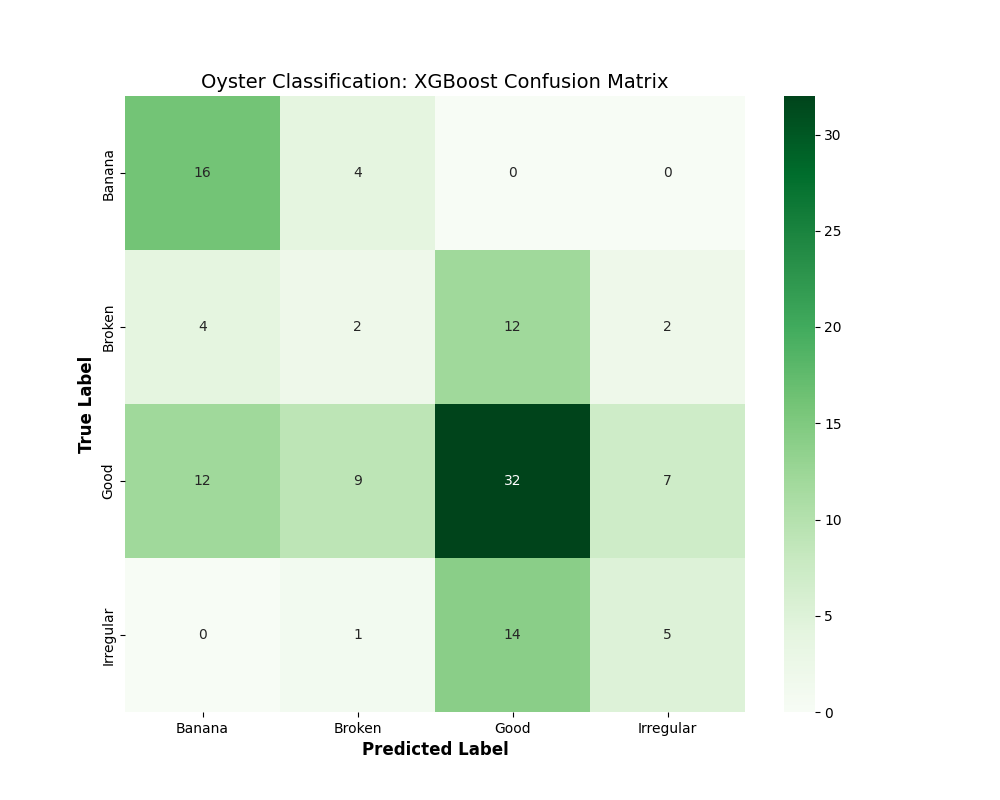
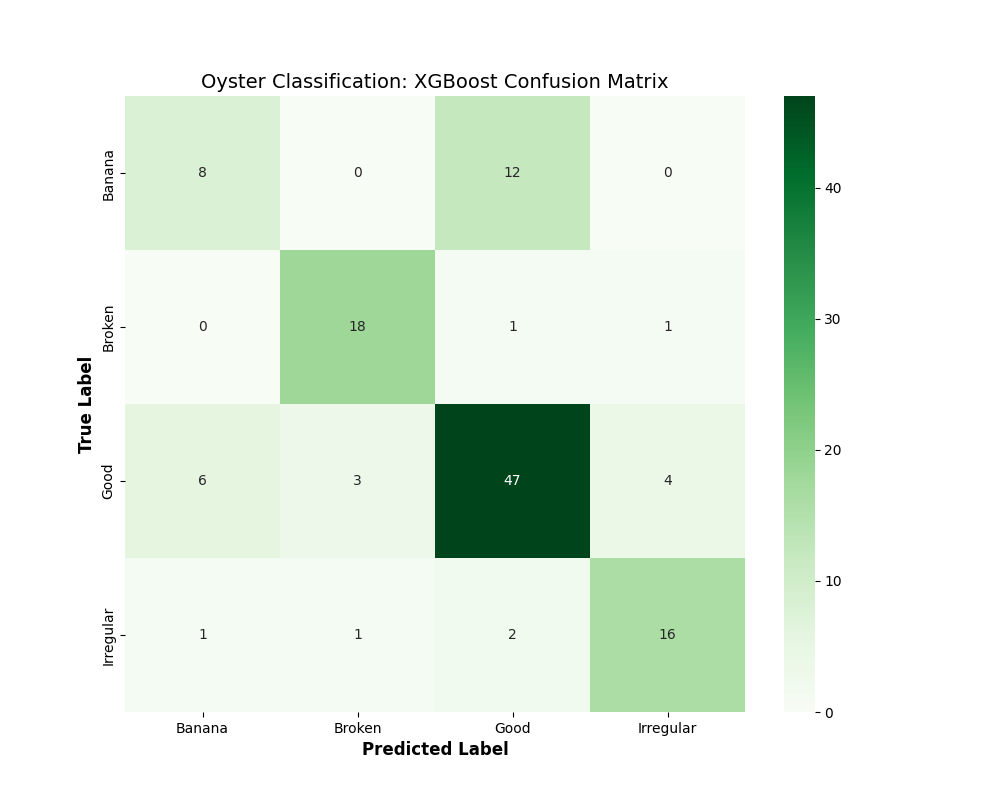
best I can do XGBoost 74%

Changed region(s): [[0.124, 0.0938, 0.744, 0.9062], [0.124, 0.0938, 0.279, 0.3125], [0.496, 0.5938, 0.527, 0.625]]

diff --git a/classification/oyster_classify_2.py b/classification/oyster_classify_2.py
@@ -34,7 +34,6 @@ def preprocess_oyster(image_path, bg_path):
     diff = cv2.absdiff(img_blur, bg)
     gray_diff = cv2.cvtColor(diff, cv2.COLOR_BGR2GRAY)
     _, mask = cv2.threshold(gray_diff, 5, 255, cv2.THRESH_BINARY)
-    # _, mask = cv2.threshold(gray_diff, 10, 255, cv2.THRESH_BINARY+ cv2.THRESH_OTSU)
     
     return img, mask
 
@@ -52,9 +51,10 @@ def get_oyster_metrics(mask):
     hull = cv2.convexHull(cnt)
     hull_area = cv2.contourArea(hull)
     solidity = float(area) / hull_area if hull_area > 0 else 0
+
+    # Elongation
     rect = cv2.minAreaRect(cnt)
     width, height = rect[1]
-    # Ensure we don't divide by zero and handle orientation
     major = max(width, height)
     minor = min(width, height)
     elongation = major / (minor + 1e-5)
@@ -114,7 +114,7 @@ def visualize_oyster_analysis(img, mask, metrics):
     
     plt.subplot(1, 2, 2)
     # Added Solidity to the title for easy checking
-    plt.title(f"Contour Analysis\nComp: {metrics['compactness']:.2f} | Elong: {metrics['elongation']:.2f} | Solid: {metrics['solidity']:.2f}")
+    plt.title(f"Contour Analysis\nComp: {metrics['compactness']:.2f} | Elong: {metrics['elongation']:.2f}")
     plt.imshow(cv2.cvtColor(vis_img, cv2.COLOR_BGR2RGB))
     
     plt.tight_layout()
@@ -137,14 +137,14 @@ def extract_all_features(data_dir, bg_path):
 
             # Use your successful preprocessing from Step 3
             img, mask = preprocess_oyster(img_path, bg_path) 
-            metrics = get_oyster_metrics(mask=mask)
+            metrics = get_oyster_metrics(mask)
             
             if metrics:
                 # Add the label to our dictionary
                 metrics['label'] = label
                 metrics['filename'] = img_name
                 # Remove the contour array so it can be saved in a table
-                del metrics['contour'] 
+                # del metrics['contour'] 
                 features_list.append(metrics)
                 
     return pd.DataFrame(features_list)
@@ -338,56 +338,56 @@ if __name__ == "__main__":
     y_test = pd.Categorical(df_test['label']).codes
     classes = sorted(df_train['label'].unique())
 
-    # # 2. Initialize the Model
-    # # 'multi:softprob' is for multi-class classification
-    # # we use 'n_estimators' to give it enough trees to learn
-    # sample_weights = compute_sample_weight(class_weight='balanced', y=y_train)
-    # model_xgb = xgb.XGBClassifier(
-    #     n_estimators=100,
-    #     max_depth=6,
-    #     learning_rate=0.25,
-    #     objective='multi:softprob',
-    #     num_class=4,
-    #     random_state=42
-    # )
+    # 2. Initialize the Model
+    # 'multi:softprob' is for multi-class classification
+    # we use 'n_estimators' to give it enough trees to learn
+    sample_weights = compute_sample_weight(class_weight='balanced', y=y_train)
+    model_xgb = xgb.XGBClassifier(
+        n_estimators=100,
+        max_depth=6,
+        learning_rate=0.05,
+        objective='multi:softprob',
+        num_class=4,
+        random_state=42
+    )
 
-    # # 3. Fit the Model
-    # model_xgb.fit(X_train, y_train, sample_weight=sample_weights)
+    # 3. Fit the Model
+    model_xgb.fit(X_train, y_train, sample_weight=sample_weights)
 
-    # # 4. Predict and Evaluate
-    # y_pred = model_xgb.predict(X_test)
+    # 4. Predict and Evaluate
+    y_pred = model_xgb.predict(X_test)
 
-    # print(f"XGBoost Accuracy: {accuracy_score(y_test, y_pred):.2%}")
-    # print("\nClassification Report:")
-    # print(classification_report(y_test, y_pred, target_names=sorted(df_train['label'].unique())))
+    print(f"XGBoost Accuracy: {accuracy_score(y_test, y_pred):.2%}")
+    print("\nClassification Report:")
+    print(classification_report(y_test, y_pred, target_names=sorted(df_train['label'].unique())))
 
-    # plot_xgb_confusion_matrix(model_xgb, X_test, y_test, classes)
+    plot_xgb_confusion_matrix(model_xgb, X_test, y_test, classes)
 
-    # xgb.plot_importance(model_xgb)
-    # plt.title("What makes an oyster? Feature Importance")
-    # plt.savefig("xgb_importance.png")
+    xgb.plot_importance(model_xgb)
+    plt.title("What makes an oyster? Feature Importance")
+    plt.savefig("xgb_importance.png")
 
     from sklearn.ensemble import RandomForestClassifier
     from sklearn.metrics import classification_report, accuracy_score
 
     # 1. Initialize Random Forest
     # 'balanced_subsample' calculates weights at every tree level, which is great for overlap
-    model_rf = RandomForestClassifier(
-        n_estimators=200, 
-        max_depth=6, 
-        class_weight='balanced_subsample',
-        random_state=42
-    )
+    # model_rf = RandomForestClassifier(
+    #     n_estimators=200, 
+    #     max_depth=6, 
+    #     class_weight='balanced_subsample',
+    #     random_state=42
+    # )
 
-    # 2. Fit the model
-    model_rf.fit(X_train, y_train)
+    # # 2. Fit the model
+    # model_rf.fit(X_train, y_train)
 
-    # 3. Predict
-    y_pred_rf = model_rf.predict(X_test)
+    # # 3. Predict
+    # y_pred_rf = model_rf.predict(X_test)
 
-    # 4. Print Results
-    print(f"Random Forest Total Accuracy: {accuracy_score(y_test, y_pred_rf):.2%}")
-    print("\nDetailed Classification Report:")
-    print(classification_report(y_test, y_pred_rf, target_names=classes))
+    # # 4. Print Results
+    # print(f"Random Forest Total Accuracy: {accuracy_score(y_test, y_pred_rf):.2%}")
+    # print("\nDetailed Classification Report:")
+    # print(classification_report(y_test, y_pred_rf, target_names=classes))
 
 
